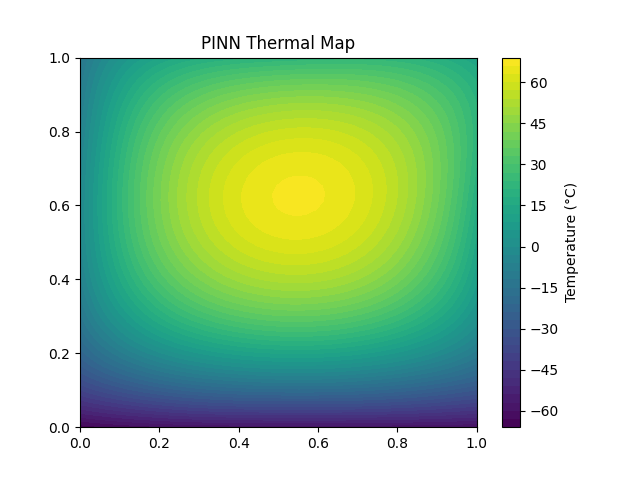
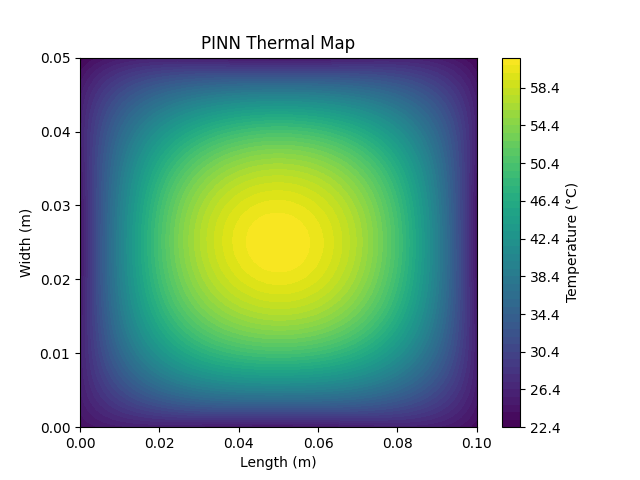
fix PINN visualization and finalize README

diff --git a/pinn/visualize_pinn.py b/pinn/visualize_pinn.py
@@ -1,7 +1,12 @@
 import numpy as np
+import matplotlib
+
+matplotlib.use("Agg")
+
 import matplotlib.pyplot as plt
 import torch
 
+from fem.heat_solver_2d import solve_steady_state_heat_2d
 from pinn.inference import load_model
 
 
@@ -9,28 +14,42 @@ def generate_pinn_map(output_path="results/pinn_thermal_map.png"):
     model = load_model()
 
     nx, ny = 50, 50
-    x = np.linspace(0, 1, nx)
-    y = np.linspace(0, 1, ny)
 
-    X, Y = np.meshgrid(x, y)
+    x_grid, y_grid, T_solver = solve_steady_state_heat_2d(
+        nx=nx,
+        ny=ny,
+        length=0.1,
+        width=0.05,
+        heat_source=100000,
+        boundary_temperature=25.0,
+    )
 
-    coords = np.stack([X.flatten(), Y.flatten()], axis=1)
+    x_norm = x_grid / 0.1
+    y_norm = y_grid / 0.05
+
+    coords = np.stack([x_norm.flatten(), y_norm.flatten()], axis=1)
     coords_tensor = torch.tensor(coords, dtype=torch.float32)
 
     with torch.no_grad():
-        T = model(coords_tensor).numpy()
+        T_pinn_norm = model(coords_tensor).numpy().reshape((ny, nx))
 
-    T = T.reshape((ny, nx))
+    T_min = T_solver.min()
+    T_max = T_solver.max()
+    T_pinn = T_pinn_norm * (T_max - T_min) + T_min
 
     plt.figure()
-    contour = plt.contourf(X, Y, T, levels=50)
+    contour = plt.contourf(x_grid, y_grid, T_pinn, levels=50)
     plt.colorbar(contour, label="Temperature (°C)")
     plt.title("PINN Thermal Map")
+    plt.xlabel("Length (m)")
+    plt.ylabel("Width (m)")
 
     plt.savefig(output_path)
     plt.close()
 
     print(f"PINN thermal map saved to {output_path}")
+    print(f"Minimum PINN temperature: {T_pinn.min():.2f} °C")
+    print(f"Maximum PINN temperature: {T_pinn.max():.2f} °C")
 
 
 if __name__ == "__main__":

diff --git a/README.md b/README.md
@@ -1,138 +1,280 @@
+cat > README.md << 'EOF'
 # ThermoPINN API
 
 Physics-informed neural network for real-time thermal prediction in engineering systems.
 
----
-
-## Live API
-
-https://thermopinn-api.onrender.com/docs
+**Live API:** https://thermopinn-api.onrender.com/docs
 
 ---
 
-## Overview
+## Why this project matters
 
-Thermal management is critical in modern systems such as:
+Thermal management is a critical constraint in modern engineering systems such as:
 
-- Data centers
-- Electric vehicles
-- Batteries
-- Electronics
+- electric vehicles
+- batteries
+- electronics
+- data centers
 
-Traditional solvers (FEM) are accurate but slow.
+Traditional numerical solvers are accurate but too slow for real-time applications such as optimization loops, design exploration, monitoring systems, or API-based deployment.
 
-This project builds a Physics-Informed Neural Network (PINN) that:
+This project demonstrates an end-to-end engineering ML system that combines:
 
-- Learns the heat equation
-- Predicts temperature fields
-- Runs faster than numerical solvers
-- Is deployable via API
+- physics-based simulation
+- neural network approximation
+- benchmark validation
+- FastAPI model serving
+- cloud deployment with Render
+
+The goal is not just to train a model, but to build a deployable system for physics-based machine learning.
 
 ---
 
-## Why this matters
+## Key Results
 
-Modern systems (EV batteries, data centers, electronics) are limited by thermal constraints.
-
-Traditional solvers are accurate but too slow for real-time decision-making.
-
-This project shows how Physics-Informed Neural Networks can:
-
-- Respect physical laws
-- Deliver near real-time predictions
-- Enable deployment in production systems
+| Metric | Value |
+|--------|------:|
+| MAE | 0.18 °C |
+| RMSE | 0.26 °C |
+| Max Error | 2.32 °C |
+| Solver time | ~0.13 s |
+| PINN inference time | ~0.036 s |
+| Speedup | ~3.5x |
 
 ---
 
 ## Architecture
 
-1. FEM solver generates ground truth data
-2. PINN learns temperature distribution
-3. FastAPI exposes inference endpoints
-4. Render deploys the model as a live service
+```text
+Numerical Heat Solver
+        ↓
+Ground Truth Temperature Field
+        ↓
+PINN Training
+        ↓
+Model Inference
+        ↓
+FastAPI Endpoints
+        ↓
+Render Deployment
+```
+
+The numerical solver generates the reference temperature field.  
+The PINN learns an approximation of that field.  
+The trained model is then exposed through FastAPI and deployed as a live API on Render.
 
 ---
 
 ## Tech Stack
 
+- Python
 - PyTorch
 - FastAPI
 - NumPy
 - Matplotlib
+- Render
 
 ---
 
 ## Features
 
 - 2D steady-state heat equation solver
-- Thermal map visualization
-- PINN training with supervised + normalized learning
-- API endpoints for simulation and prediction
-- Benchmark comparison (PINN vs solver)
-
----
-
-## Key Results
-
-- 3.5x faster than numerical solver
-- MAE: 0.18 °C
-- RMSE: 0.26 °C
+- Thermal map generation
+- PINN model training
+- Normalized supervised learning
+- PINN vs solver benchmark metrics
+- FastAPI prediction endpoints
+- Live deployed API on Render
 
 ---
 
 ## API Endpoints
 
+### Health check
+
+```http
+GET /health
+```
+
 ### Run physics simulation
 
+```http
 POST /simulate
+```
 
+Example request:
+
+```json
 {
   "length": 0.1,
   "width": 0.05,
   "heat_power": 100000,
   "ambient_temperature": 25
 }
+```
 
 ### Predict with PINN
 
+```http
 POST /predict-pinn
+```
 
+Example request:
+
+```json
 {
   "x": 0.5,
   "y": 0.5
 }
+```
+
+Example response:
+
+```json
+{
+  "x": 0.5,
+  "y": 0.5,
+  "predicted_temperature": 62.09
+}
+```
 
 ---
 
-## Results
+## Try it yourself
 
-- MAE: 0.18 °C
-- RMSE: 0.26 °C
-- Max Error: 2.32 °C
+Open the live API documentation:
 
----
+https://thermopinn-api.onrender.com/docs
 
-## Performance
+Test the `/predict-pinn` endpoint with:
 
-- Solver time: ~0.13 s
-- PINN inference: ~0.036 s
+```json
+{
+  "x": 0.5,
+  "y": 0.5
+}
+```
 
 ---
 
 ## Visualizations
 
-### Solver thermal map
+### Numerical solver thermal map
+
 ![Solver Thermal Map](results/thermal_map.png)
 
 ### PINN thermal map
+
 ![PINN Thermal Map](results/pinn_thermal_map.png)
 
-### Error metrics
+### PINN vs solver error metrics
+
 ![Error Metrics](results/error_metrics.png)
+
+---
+
+## Local Setup
+
+Clone the repository:
+
+```bash
+git clone https://github.com/hassanattout/thermopinn-api.git
+cd thermopinn-api
+```
+
+Create and activate a virtual environment:
+
+```bash
+python3 -m venv venv
+source venv/bin/activate
+```
+
+Install dependencies:
+
+```bash
+pip install -r requirements.txt
+```
+
+Run the API locally:
+
+```bash
+python -m uvicorn app.main:app --reload
+```
+
+Open:
+
+```text
+http://127.0.0.1:8000/docs
+```
+
+---
+
+## Deployment on Render
+
+This project is deployed as a Python web service on Render.
+
+Build command:
+
+```bash
+pip install -r requirements.txt
+```
+
+Start command:
+
+```bash
+python -m uvicorn app.main:app --host 0.0.0.0 --port $PORT
+```
+
+The `$PORT` variable is provided automatically by Render.
+
+---
+
+## Project Structure
+
+```text
+thermopinn-api/
+├── app/
+│   └── main.py
+├── fem/
+│   ├── heat_solver_2d.py
+│   └── visualize.py
+├── pinn/
+│   ├── model.py
+│   ├── train.py
+│   ├── inference.py
+│   └── visualize_pinn.py
+├── experiments/
+│   ├── compare_pinn_vs_solver.py
+│   └── generate_benchmark_artifacts.py
+├── models/
+│   └── pinn_model.pth
+├── results/
+│   ├── thermal_map.png
+│   ├── pinn_thermal_map.png
+│   ├── error_metrics.png
+│   └── benchmark_metrics.csv
+├── requirements.txt
+├── runtime.txt
+└── README.md
+```
+
+---
+
+## Future Improvements
+
+- 3D thermal modeling
+- transient heat equation
+- CAD-based inputs
+- battery pack geometry
+- improved physics loss integration
+- GPU inference
+- advanced deployment pipeline
 
 ---
 
 ## Author
 
 Hassan Attout  
-Mechanical & Energy Engineering | AI for Engineering Systems
+Mechanical & Energy Engineering  
+AI for Engineering Systems
+EOF
